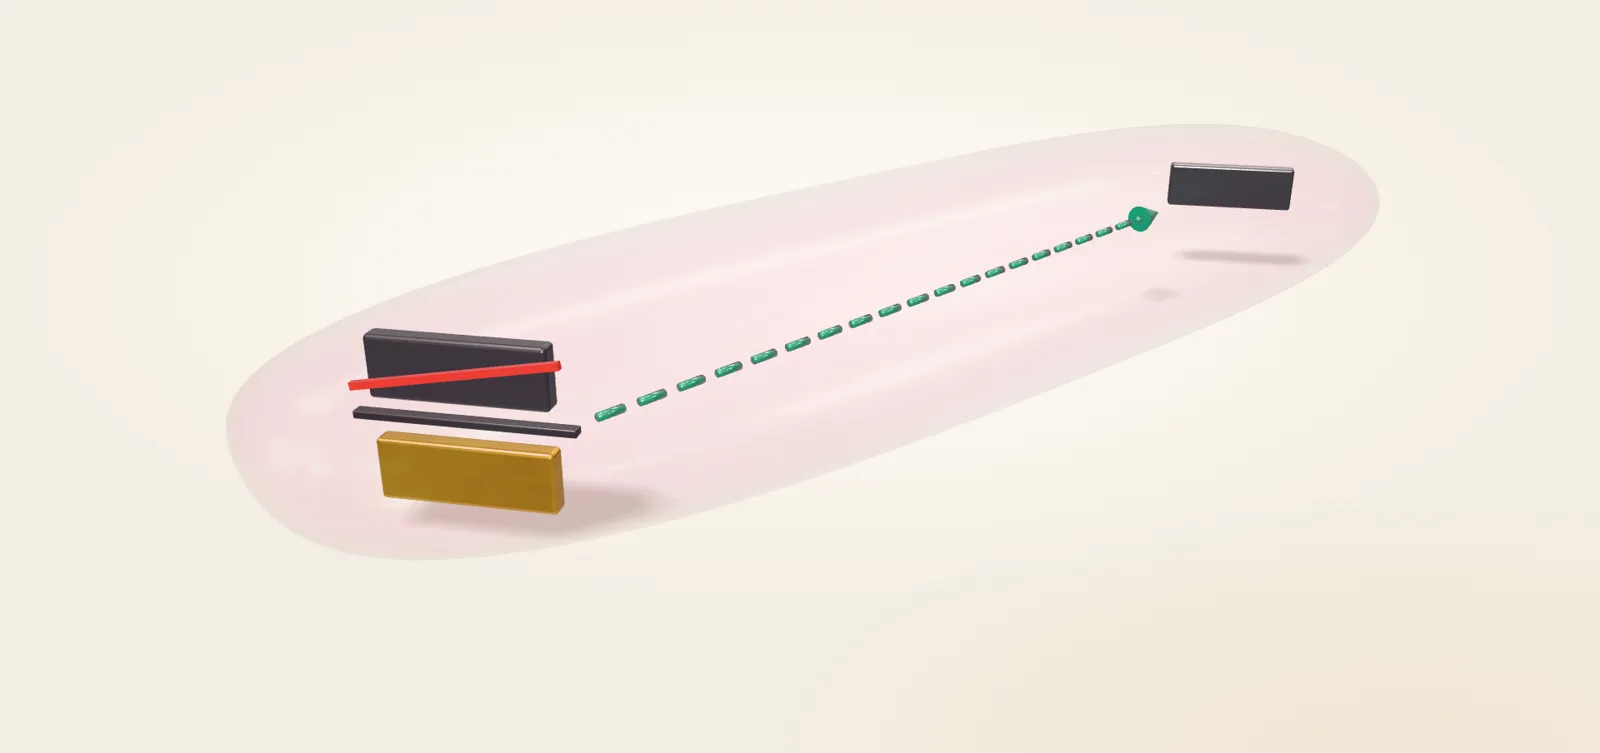
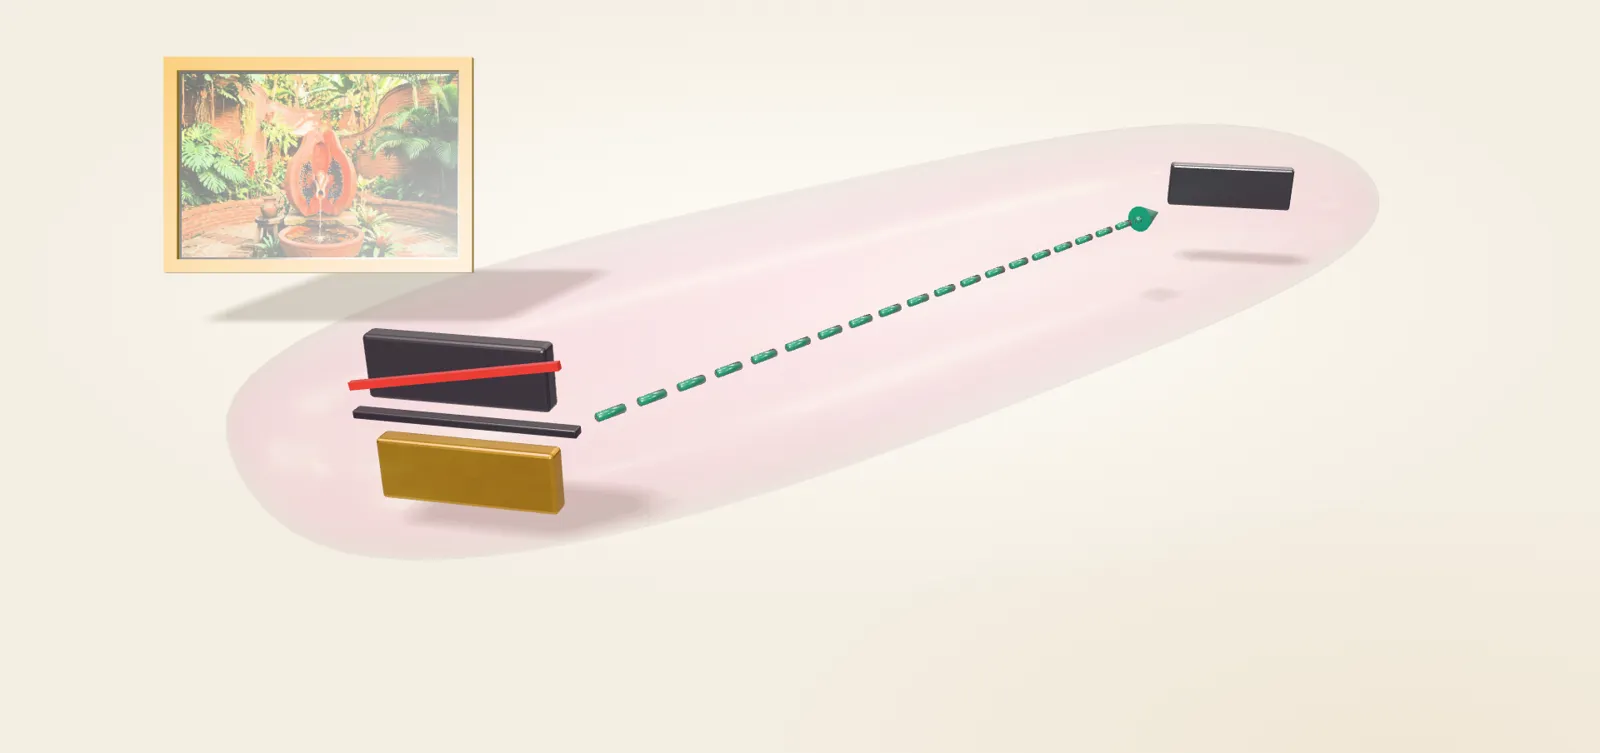
Sustitución: láminas propias (columnas en «Falla», fuente-papaya en «Papaya») y envoltura más liviana

Changed region(s): [[0.0938, 0.0611, 0.375, 0.4276]]

diff --git a/blender/scenes/sustitucion.py b/blender/scenes/sustitucion.py
@@ -150,7 +150,7 @@ limbo('snte1', [(0, True), (3.1, False), (5.25, True)], (0, YF, 0), padre_escala
 # ---------------------------------------------------------------- ajustes del estudio (tema claro)
 S.estudio = {
     'materiales': {
-        'vidrio': {'color': '#56626A', 'opacity': 0.1, 'roughness': 0.2, 'envMapIntensity': 0.9},
+        'vidrio': {'color': '#7E918B', 'opacity': 0.06, 'roughness': 0.12, 'clearcoat': 1, 'envMapIntensity': 1.2},
         'calido': {'color': '#A3245F', 'opacity': 0.065, 'roughness': 0.25, 'emissive': '#A3245F',
                    'emissiveIntensity': 0.08, 'envMapIntensity': 0.8},
     },
